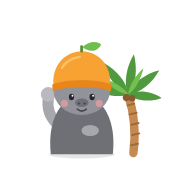
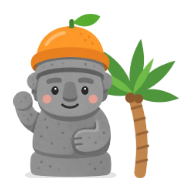
cat-house: 앱 아이콘을 제공받은 귤모자 돌하르방 + 야자수 이미지로 교체
Claude-Session: https://claude.ai/code/session_017Yu3a2CvjA67Uw9nVVeR1S

diff --git a/cat-house/index.html b/cat-house/index.html
@@ -7,8 +7,8 @@
   <meta name="color-scheme" content="light">
   <meta name="theme-color" content="#f6f5f3">
   <link rel="manifest" href="manifest.webmanifest">
-  <link rel="icon" type="image/png" href="icon-192.png?v=jeju2">
-  <link rel="apple-touch-icon" href="apple-touch-icon.png?v=jeju2">
+  <link rel="icon" type="image/png" href="icon-192.png?v=jeju3">
+  <link rel="apple-touch-icon" href="apple-touch-icon.png?v=jeju3">
   <meta name="apple-mobile-web-app-capable" content="yes">
   <meta name="mobile-web-app-capable" content="yes">
   <meta name="apple-mobile-web-app-title" content="가족 소식통">
@@ -16,11 +16,11 @@
   <link rel="preconnect" href="https://fonts.googleapis.com">
   <link rel="preconnect" href="https://fonts.gstatic.com" crossorigin>
   <link href="https://fonts.googleapis.com/css2?family=Gowun+Dodum&family=Jua&display=swap" rel="stylesheet">
-  <link rel="stylesheet" href="style.css?v=20261025a">
+  <link rel="stylesheet" href="style.css?v=20261026a">
 </head>
 <body>
   <div id="splash" class="splash" aria-hidden="true">
-    <img src="icon-192.png?v=jeju2" alt="" width="120" height="120">
+    <img src="icon-192.png?v=jeju3" alt="" width="120" height="120">
     <div class="splash-text">우리 가족 소식통</div>
   </div>
 
@@ -570,6 +570,6 @@
     window.dispatchEvent(new Event("cloud-ready"));
   </script>
 
-  <script src="script.js?v=20261025a"></script>
+  <script src="script.js?v=20261026a"></script>
 </body>
 </html>
